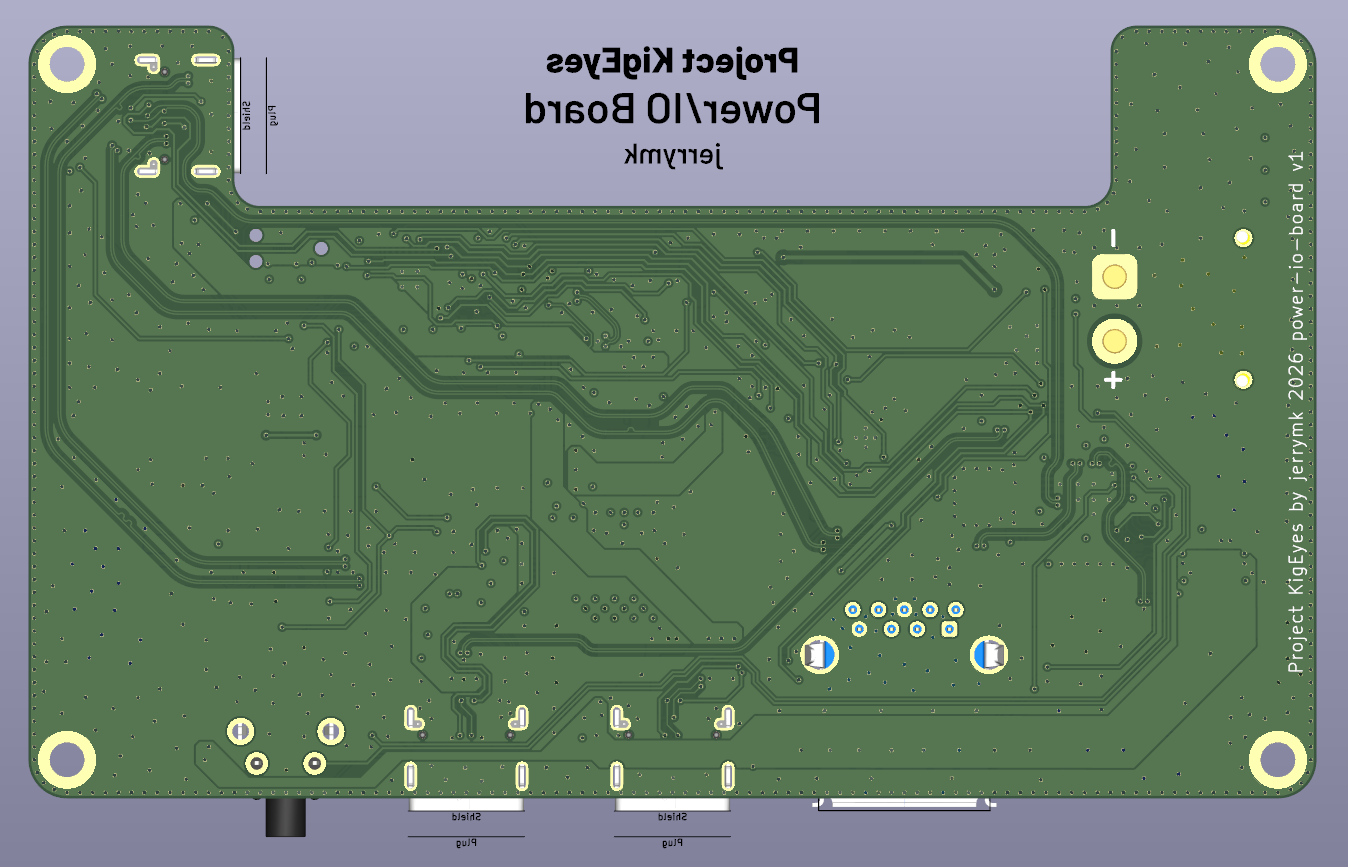
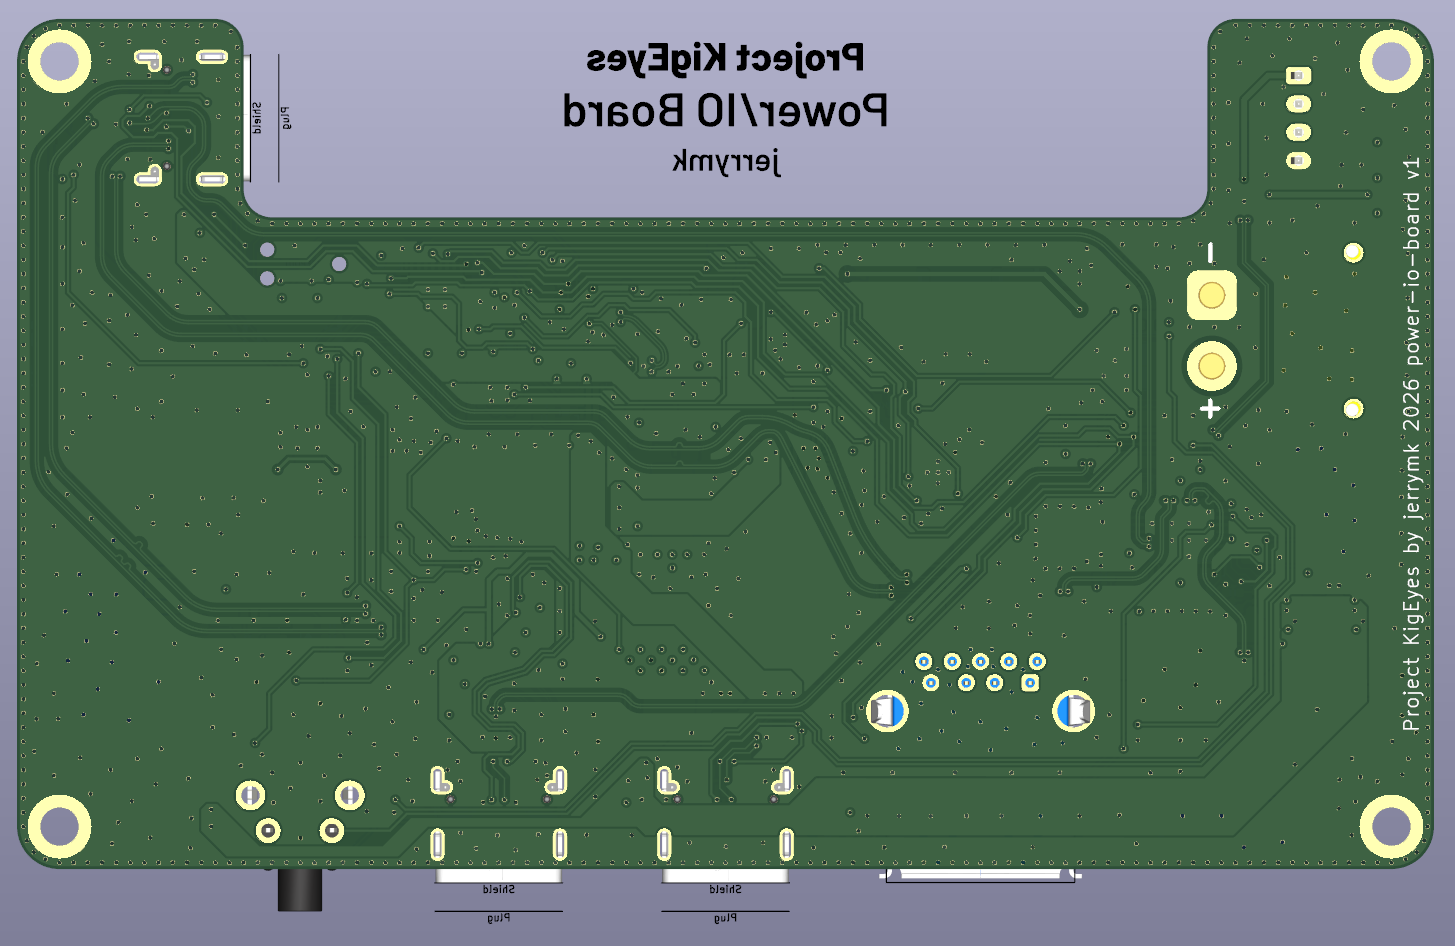
Update selected files to public repository

diff --git a/PCB/README.md b/PCB/README.md
@@ -4,7 +4,7 @@
 
 | versions | status |
 | :-- | :-- |
-| v1 | work in progress |
+| v1 | work in progress (ETA: 2026/9/20) |
 
 - Type C (custom protocol) power input (up to 15V) from `kigeyes-power-io-board`, includes single USB 2.0, dual USB 3.2 Gen 1, and I2C
 - Raspberry Pi Compute Module 5
@@ -19,7 +19,7 @@
 
 | versions | status |
 | :-- | :-- |
-| [v1](https://github.com/jrymk/KigEyes/tree/03120d87e7e96c838e76b844e53821a05b18d4d7/PCB/kigeyes-power-io-board) | design ready, untested |
+| [v1](https://github.com/jrymk/KigEyes/tree/7198f1973b7d364ebd13c92b04e8cc514ec3cece/PCB/kigeyes-power-io-board) | finalized, untested |
 
 - USB PD input (up to 15V 3A)
 - 1S LiFePO4 BQ25306 charger (up to 3A) and voltage booster
@@ -27,7 +27,8 @@
 - USB 2.0 hub
 - USB Type C DFP (5V 1.5A, USB 3.2 Gen 1, PD-compliant)
 - USB Type A DFP (5V 0.9A guaranteed, USB 3.2 Gen 1)
-- USB Port J (JST PH, USB 2.0)
+- USB Port AUX (JST PH, USB 2.0)
+- USB Port ENV (JST PH, USB 2.0)
 - 24V/12V fan output with speed control
 
 ## eye-tracker-mainboard
